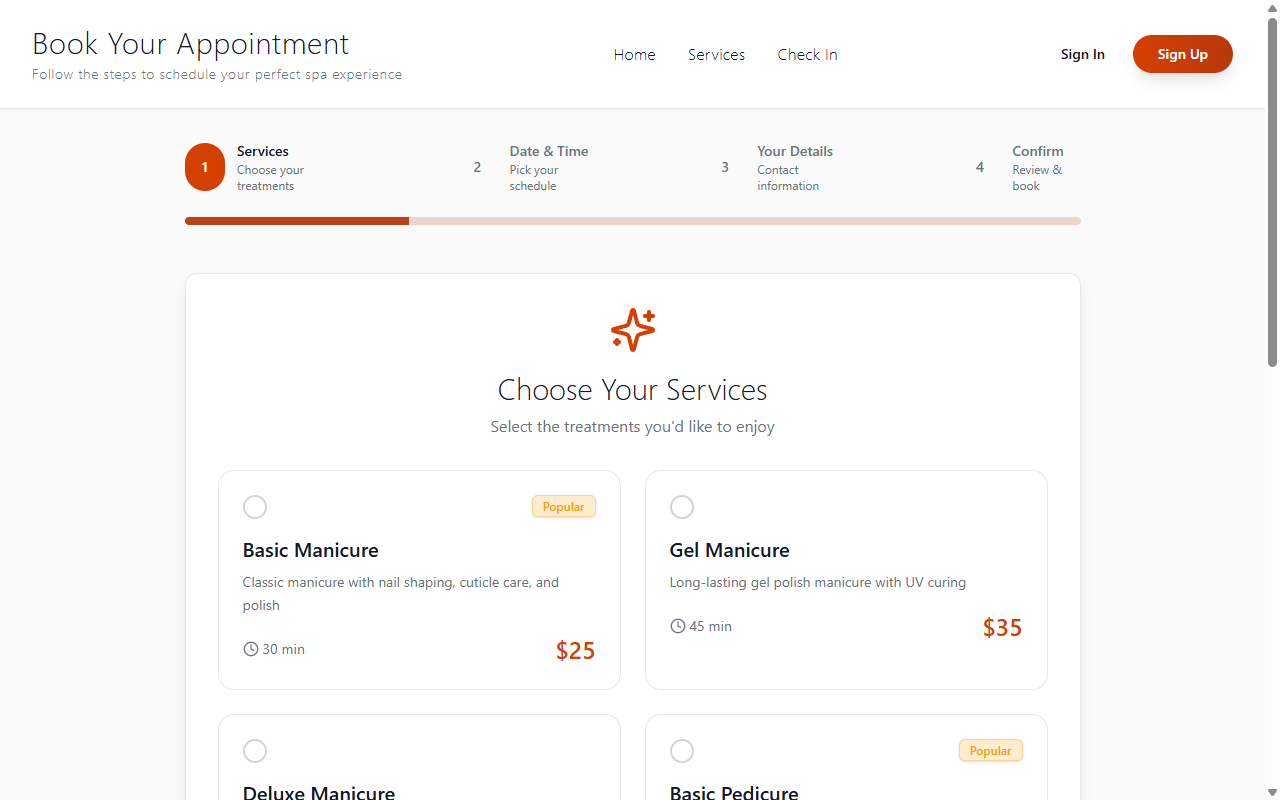
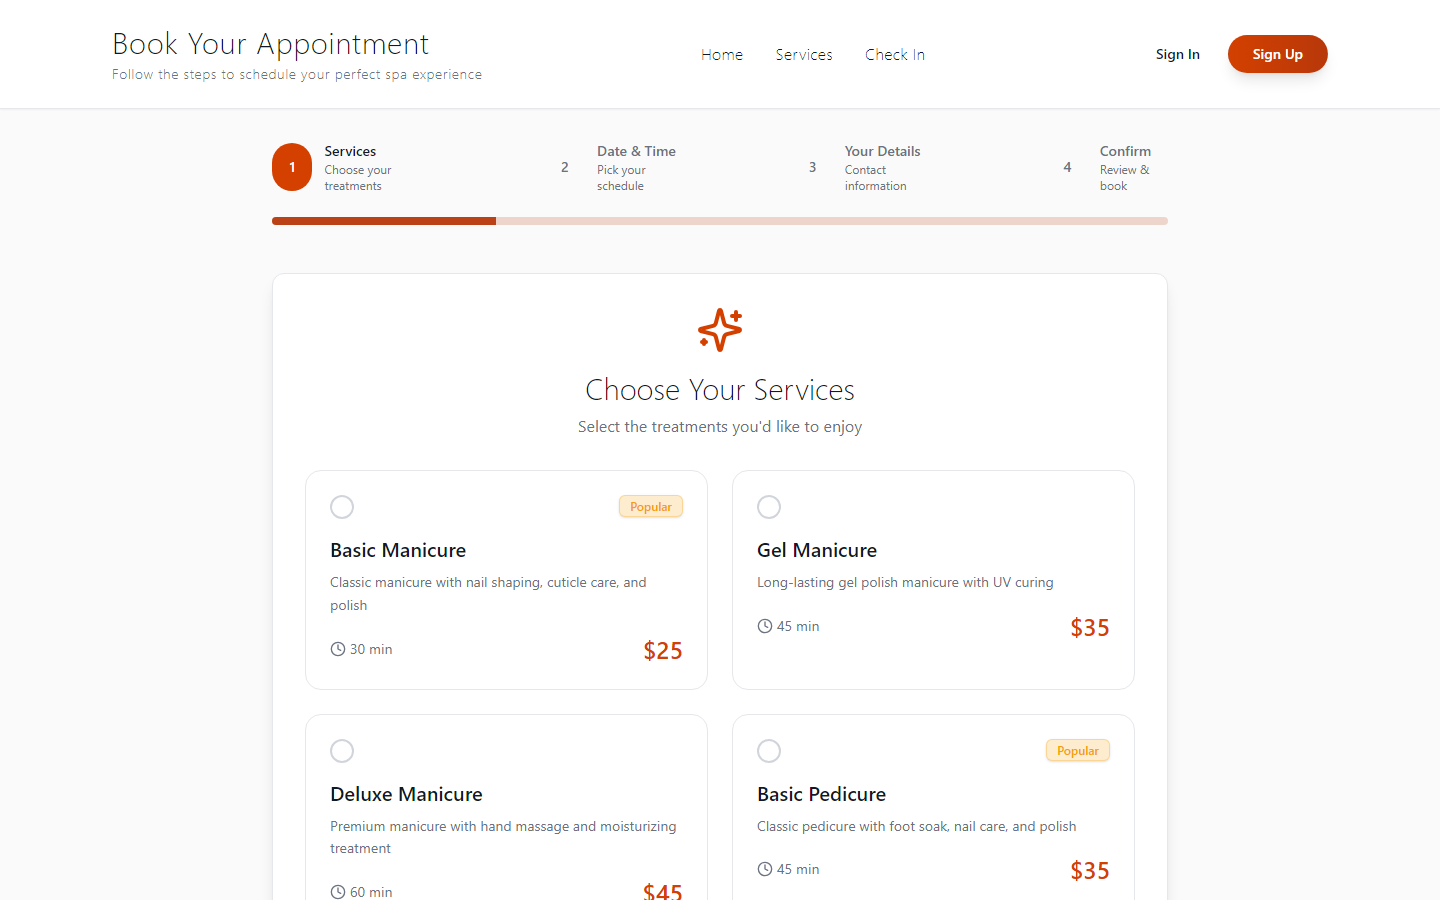
feat(salon-hub): refresh screenshots for multi-tenant SaaS launch
Replaces stale single-tenant screenshots with the current production UI captured from salon-hub-black.vercel.app at 1440x900:
  - home.png: SalonHub landing with Sign Up CTA
  - signup.png: new public tenant onboarding flow
  - booking.png: 4-step booking wizard
  - check-in.png: walk-in check-in with member/guest options
  - admin-dashboard.png: tenant admin queue view
  - admin-settings.png: business name / hours / contact / theme editor
  - admin-services.png: service catalog editor

Removes obsolete login.png, register.png, colors.png. Updates projects.ts images array accordingly.

diff --git a/src/data/projects.ts b/src/data/projects.ts
@@ -50,11 +50,12 @@ export const projects: Project[] = [
     liveUrl: 'https://salon-hub-black.vercel.app',
     images: [
       'screenshots/salon-hub/home.png',
+      'screenshots/salon-hub/signup.png',
       'screenshots/salon-hub/booking.png',
-      'screenshots/salon-hub/register.png',
-      'screenshots/salon-hub/login.png',
       'screenshots/salon-hub/check-in.png',
-      'screenshots/salon-hub/colors.png',
+      'screenshots/salon-hub/admin-dashboard.png',
+      'screenshots/salon-hub/admin-settings.png',
+      'screenshots/salon-hub/admin-services.png',
     ],
     featured: true,
     category: 'Full-Stack'
